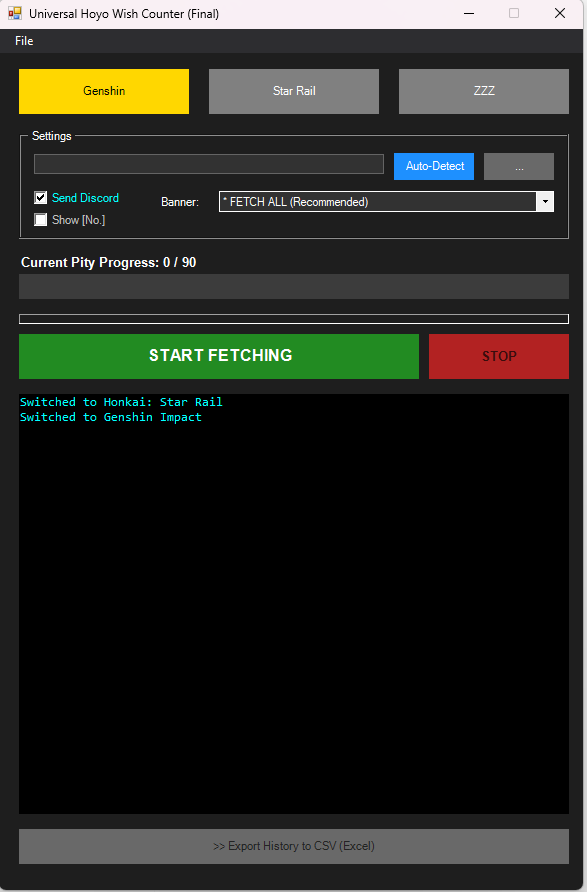
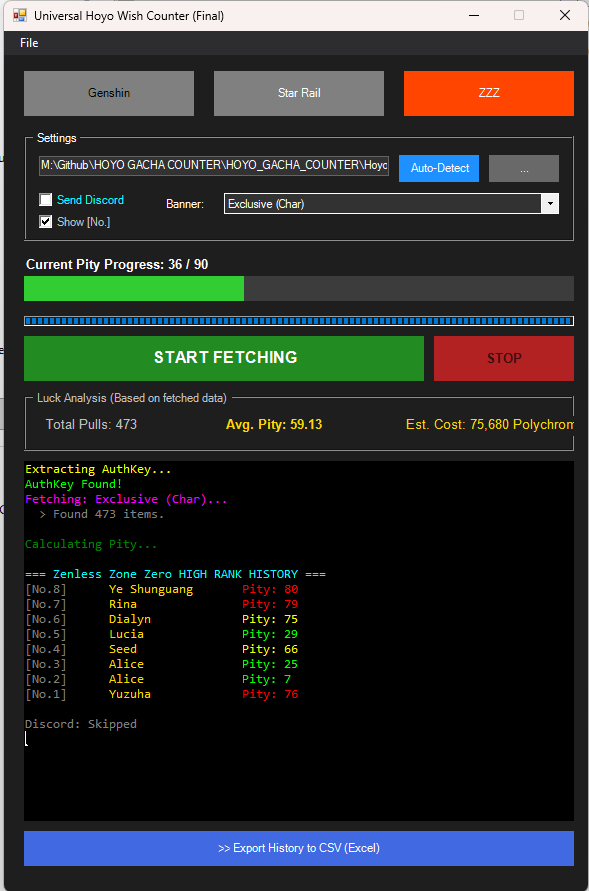
Update UI and logic get AUTH

Changed region(s): [[0.0, 0.0, 1.0, 1.0], [0.46, 0.0909, 0.552, 0.1212], [0.8586, 0.0, 0.8893, 0.0303]]

diff --git a/HoyoWishCounter/GUI_Version/VISUAL_CHANGELOG.md b/HoyoWishCounter/GUI_Version/VISUAL_CHANGELOG.md
@@ -1,52 +1,54 @@
 # 🎨 Visual Update Log: Version 3.1.0
 
 > **"From Simple Console to Modern Dashboard"**
-> This update brings a massive overhaul to the user interface, making tracking your pity easier, safer, and more beautiful.
+> This update brings a massive overhaul to the user interface, introducing Luck Analysis, Pity Meters, and a robust Auto-Detect system.
 
 ---
 
 ## 🆚 The Evolution (เปรียบเทียบความเปลี่ยนแปลง)
 
-### 1. The Main Dashboard (หน้าจอหลัก)
-We moved away from the basic interface to a structured, feature-rich dashboard.
+### The Dashboard
+From a command-line script to a full-featured Windows application.
 
 | Previous Versions (Legacy) | ✨ New Version 3.1.0 |
 | :---: | :---: |
-| **1. The Console Era**<br>![Console](../screenshots/Console_MainMenu.png)<br><br>**2. Early GUI (Beta)**<br>![Old GUI](../screenshots/UI_Old.png) | **3. Modern Dashboard**<br><br>![New UI](../screenshots/UI_New_Main.png) |
-| *Evolution from command line > Simple Form > Full Dashboard* | *Added Top Menu Bar, Grouped Settings, and clear visual hierarchy.* |
+| **1. The Console Era**<br>![Console](../screenshots/Console_MainMenu.png)<br><br>**2. Early GUI (Beta)**<br>![Old GUI](../screenshots/UI_Old.png) | **3. Final Dashboard**<br><br>![New UI](../screenshots/UI_New_Main.png) |
+| *Command Line > Simple Form* | *Full Dashboard with Menu Bar, Stats, and Pity Meter.* |
+
 ---
 
-## 🌟 Key Visual Features (ฟีเจอร์เด่น)
+## 🌟 Feature Spotlight (ฟีเจอร์เด่น)
 
-### 📊 1. Dynamic Pity Meter (หลอดวัดความเกลือ)
-No more guessing! The new progress bar visualizes your pity status in real-time.
+### 📊 1. Luck Analysis Dashboard (วิเคราะห์ดวง)
+Are you lucky or salty? The tool now calculates your account's performance instantly.
+
+![Luck Stats](../screenshots/UI_Luck_Stats.png)
+
+*   **Total Pulls:** How many wishes fetched in this session.
+*   **Avg. Pity:** Color-coded average! (e.g., **Green** = Lucky, **Red** = Salty).
+*   **Est. Cost:** Calculates how many Primogems/Jades/Polychromes you spent.
+
+### 🌡 2. Dynamic Pity Meter
+Visualizes your progress towards the Hard Pity (90).
 
 ![Pity Meter](../screenshots/UI_Pity_Meter.png)
 
-*   **Real-time Tracking:** Shows exactly how many pulls you've made since the last 5-Star.
-*   **Color Coded:**
-    *   🟢 **Green:** Safe Zone (Early pulls)
-    *   🟡 **Gold:** Approaching Soft Pity
-    *   🔴 **Red:** **Soft Pity / High Risk** (74+ Pulls)
-*   **Live Counter:** Displays `Current Pity: XX / 90` clearly above the bar.
+*   **Color Coded:** Changes from **Green** -> **Gold** -> **Red** as you approach 90.
+*   **Current Pity:** Shows the exact count since your last 5-star.
 
-### 🔍 2. Smart Log Feedback (ระบบแจ้งสถานะอัจฉริยะ)
-The log window now tells you exactly what the "Auto-Detect" system is doing.
+### 🔍 3. Transparent Auto-Detect
+No more guessing. The log window tells you exactly what the tool is doing.
 
 ![Auto Detect Log](../screenshots/UI_AutoDetect_Log.png)
 
-*   **Transparency:** Shows step-by-step process: `Reading Player.log` -> `Found Game Path` -> `Copying File`.
-*   **Universal Detection:** You can now see confirmation that the tool found your game on **Drive M:** (or any custom drive) instantly.
-
-### 🛠 3. Menu Bar & Controls
-*   **Menu Bar:** Added `File > Reset / Clear All` (F5) to wipe data instantly without restarting.
-*   **Stop Button:** Added a safety stop button to halt operations gracefully.
+*   **Smart Parsing:** Identifies the game path via `Player.log` or `output_log.txt`.
+*   **Drive Detection:** Confirms discovery on custom drives (e.g., `M:\Games\...`).
 
 ---
 
 ## 🚀 Why upgrade to 3.1.0?
-- **Better UX:** Easier to read, easier to use.
-- **Safer:** "Auto-Detect" logic is now visible and transparent.
-- **Prettier:** The dark theme with color-coded alerts matches the gaming vibe.
+- **Smarter:** Handles Genshin, HSR, and ZZZ with specific logic for each.
+- **Deeper:** Gives you stats (Avg Pity, Cost) not found in the in-game history.
+- **Cleaner:** Fixed all console spam and path errors.
 
 [🔙 Back to Main README](./README.md)

diff --git a/CHANGELOG.md b/CHANGELOG.md
@@ -3,26 +3,29 @@
 All notable changes to this project will be documented in this file.
 ## [3.1.0] - 2026-01-11
 ### 🎨 Visual & UI Updates
+- **Luck Analysis Dashboard (New):**
+    - Added a dedicated stats panel showing **Total Pulls**, **Average Pity**, and **Estimated Cost** (in Primogems/Jades).
+    - **Dynamic Coloring:** The "Avg. Pity" text changes color based on your luck (Lime=Lucky, Gold=Average, Red=Salty).
 - **Visual Pity Meter:**
-    - Introduced a dynamic **Pity Gauge** that fills up based on your current progress towards 90 pulls.
-    - **Color-Coded Status:** The bar changes color to indicate safety: **Green** (Safe), **Gold** (Approaching), and **Red** (Soft Pity/High Risk).
-    - **Live Counter:** Added a prominent text display (e.g., *"Current Pity: 76 / 90"*) above the gauge for instant readability.
+    - Introduced a progress bar that visualizes your current pity status towards the 90-pull hard pity.
+    - Includes a **"Current Pity"** counter positioned clearly above the gauge.
 - **Menu Bar Integration:**
-    - Added a standard Windows **Menu Bar** at the top.
-    - **Reset Function:** Added **"Reset / Clear All"** (Shortcut: `F5`) to instantly clear logs, reset the pity counter, and wipe temporary data without restarting the app.
-- **Layout Refinements:**
-    - Redesigned the "Settings" area into a clean GroupBox structure.
-    - Adjusted window height and component spacing to accommodate the new visual elements without clutter.
+    - Added `File > Reset / Clear All` (F5) to instantly wipe data, reset stats, and clear logs without restarting the app.
 
 ### ⚙ Core Logic Upgrades
-- **Smart Auto-Detect 2.0 (SRS Logic):**
-    - **Log-Based Detection:** Replaced the legacy file scanning method with **Unity Log Parsing** (inspired by Star Rail Station).
-    - **True Universal Support:** Now correctly locates game installations on **ANY drive** (e.g., Drive M:, External SSDs, Network Drives) by reading the game's official `Player.log`.
-    - **Real-time Feedback:** The Auto-Detect process now reports specific steps (Finding Log > Reading Path > Copying) directly to the application status log.
+- **"Trinity" Auto-Detect Logic:**
+    - Implemented a robust hybrid detection system handling all 3 games uniquely:
+        - **Genshin Impact:** Uses Legacy Regex parsing on `output_log.txt`.
+        - **Zenless Zone Zero:** Uses specific `[Subsystems]` parsing on `Player.log`.
+        - **Honkai: Star Rail:** Uses standard SRS logic on `Player.log`.
+- **Universal Drive Support:**
+    - Now correctly locates game installations on **ANY drive** (C:, D:, M:, Network Drives) by reading the official logs.
+- **Recursive Cache Search:**
+    - Replaced version-number guessing with a **Recursive Sort-by-Date** method. This ensures the script always grabs the latest `data_2` file, regardless of folder structure changes or ZZZ's version padding.
 
 ### 🐛 Bug Fixes
-- **Critical Path Fixes:** Resolved "Empty String" and "Illegal Path Form" errors caused by PowerShell's path handling on custom drive letters.
-- **Stability:** Implemented robust .NET fallback methods for file copying to ensure 100% success rate on non-standard environment setups.
+- **Console Cleanliness:** Suppressed output noise (e.g., `0`, `1` list indexes) in the background console.
+- **Path Handling:** Fixed "Illegal Path Form" errors when copying files to custom staging directories.
 
 ## [3.0.0] - 2026-01-11
 ### 🚀 Major Overhaul: GUI Edition
